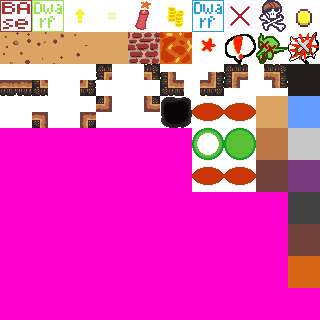
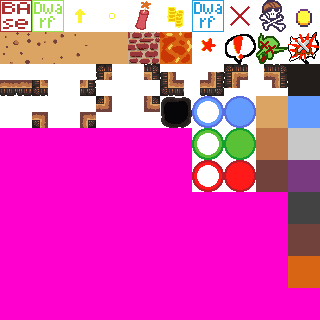
fixed dwarf warrior swooshes

Changed region(s): [[0.5938, 0.5, 0.8125, 0.625], [0.5938, 0.2812, 0.8125, 0.4062]]

diff --git a/TODO.md b/TODO.md
@@ -2,14 +2,16 @@
 # In progress
 ////////////////////////////////////////////////////////////////////////////////////////////////////
 
-- Unit type drop shadows
+
 
 ////////////////////////////////////////////////////////////////////////////////////////////////////
 # Bugs
 ////////////////////////////////////////////////////////////////////////////////////////////////////
 
-- Dwarves don't turn around after selecting to go another way
+- Aggro logic is fucked up. Dwarves don't seem to wait where they should when goblins coming to them.
+- Dwarf warrior mined iron and pathed to treasure
 - Mining particles don't appear when tile is destroyed
+- Dwarves don't turn around after selecting to go another way
 - Gold, miss, and hit particles are fucked up
 - Dwarf warrior unable to path outside of base
 - Water doesn't spread immediately
